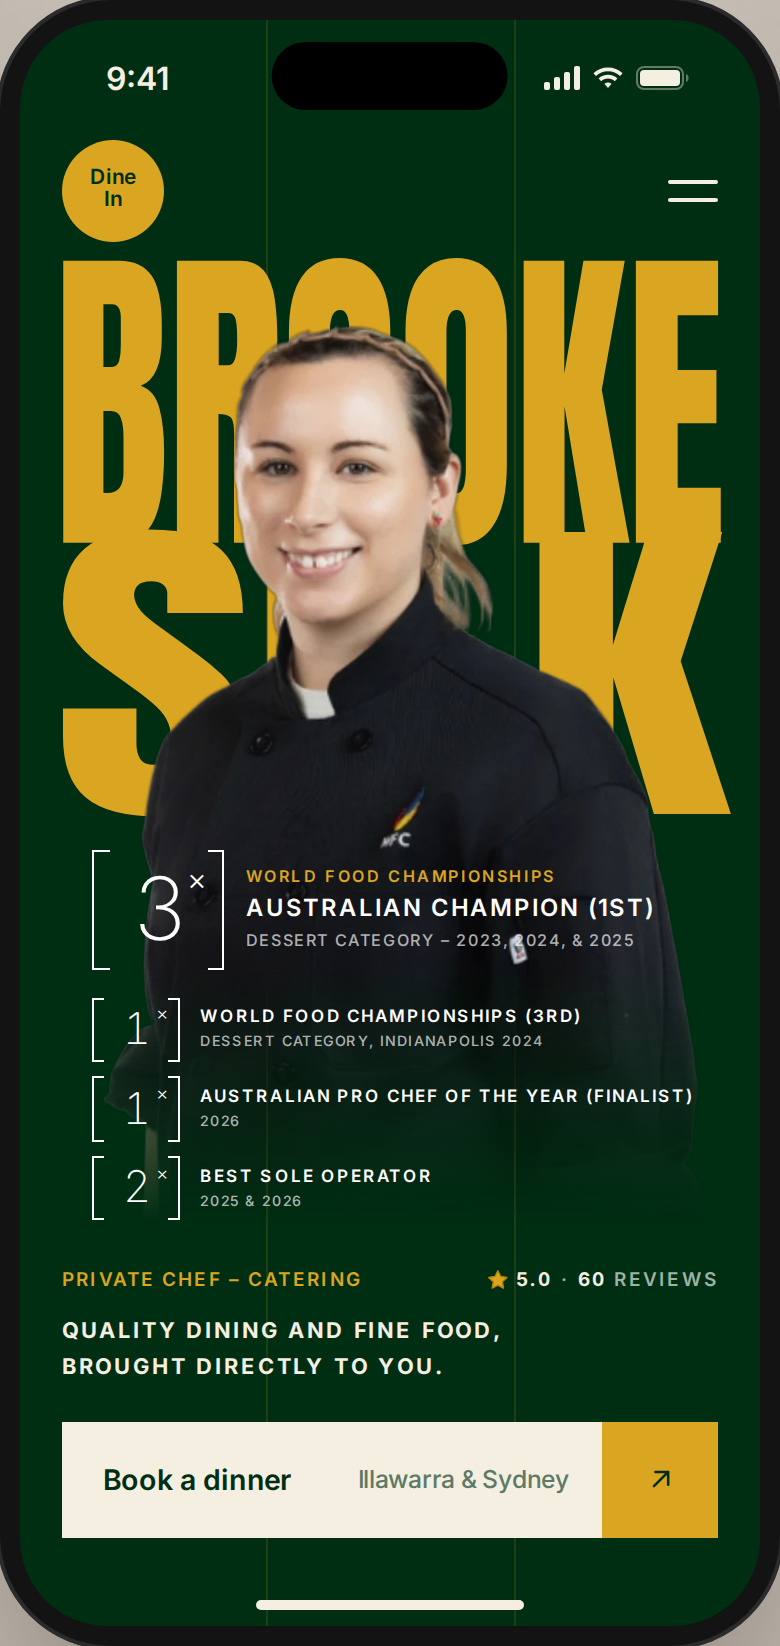
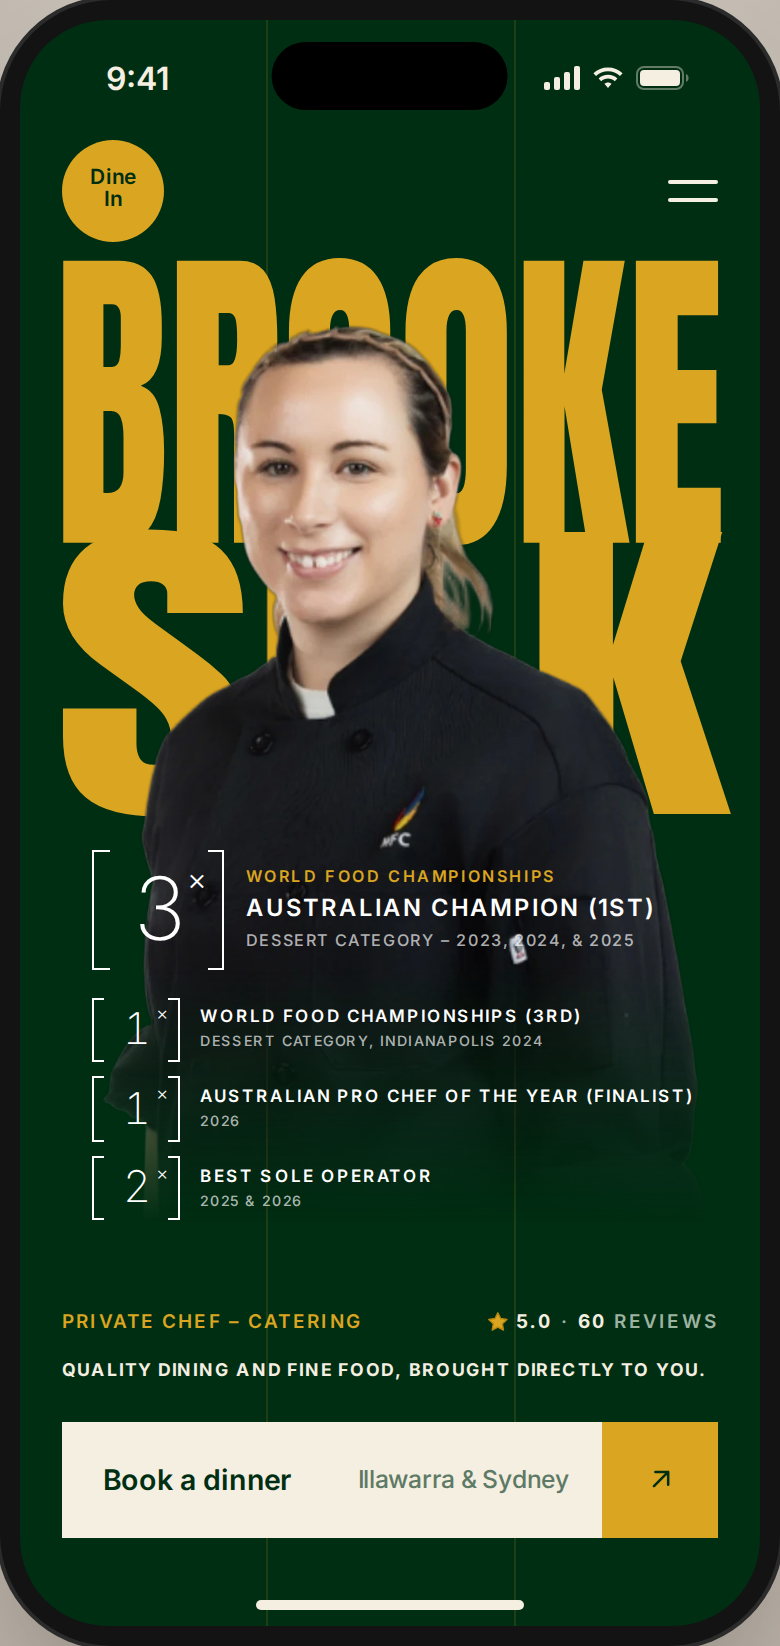
Chef card: keep the tagline on one line
The tagline drops from 11.5 to 9.3 design units with slightly tighter
tracking and no longer wraps, so "Quality dining and fine food, brought
directly to you." spans the card's full width in one line, ending flush
with the button's right edge.

Claude-Session: https://claude.ai/code/session_01Dn2sZdZCxPbGjUxXXUAMP8

Changed region(s): [[0.0615, 0.7746, 0.9231, 0.8366]]

diff --git a/components/chef-card/style.css b/components/chef-card/style.css
@@ -351,13 +351,13 @@
 }
 
 .ui-chef__tagline {
-  max-width: calc(234 * var(--u));
   margin: 0 0 calc(20 * var(--u));
-  font-size: calc(11.5 * var(--u));
+  font-size: calc(9.3 * var(--u));   /* small enough to keep the tagline on one line */
   font-weight: 700;
-  letter-spacing: 0.13em;
+  letter-spacing: 0.1em;
   line-height: 1.6;
   text-transform: uppercase;
+  white-space: nowrap;
 }
 
 .ui-chef__cta {

diff --git a/components/chef-card/README.md b/components/chef-card/README.md
@@ -16,7 +16,7 @@ The Dine In edition of the [profile card](../profile-card/), for private chef Br
 
     The bracket shows how many times, and the placing sits in brackets after the title. The lead award has a bigger bracket and title, so it stands out from the three smaller ones below it.
   - Meta row: "Private chef – Catering" in gold on the left, and her Google rating (★ 5.0 · 60 reviews) on the right.
-  - Tagline: "Quality dining and fine food, brought directly to you." in tracked ivory uppercase.
+  - Tagline: "Quality dining and fine food, brought directly to you." in tracked ivory uppercase, on one line. It's sized to fit the full width of the card, so a longer tagline needs a smaller `font-size` on `.ui-chef__tagline`.
   - Button: an ivory bar with "Book a dinner" and the service area "Illawarra & Sydney", plus a gold square with an arrow.
 - **Grid:** two faint gold hairlines divide the card into thirds, behind everything.
 - **Colours:** Dine In green `#002E13` and gold `#DAA520`, both taken from the Dine In logo, with a warm ivory `#F4EFE1` for text and the button.
